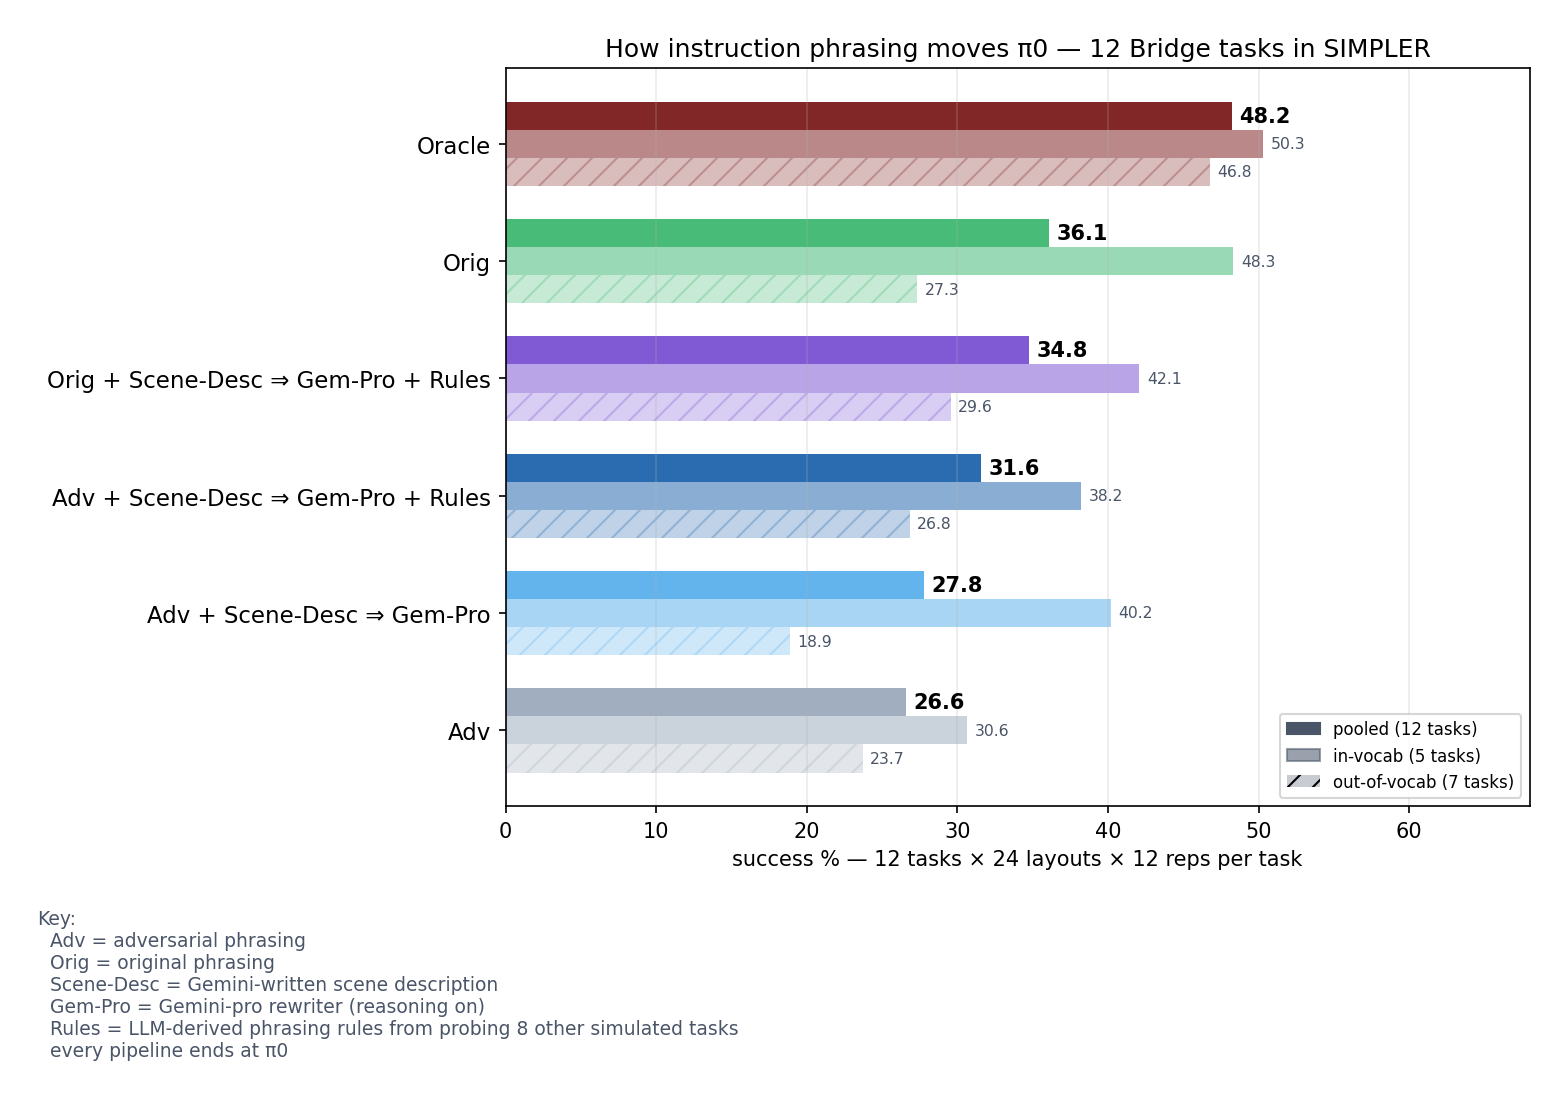
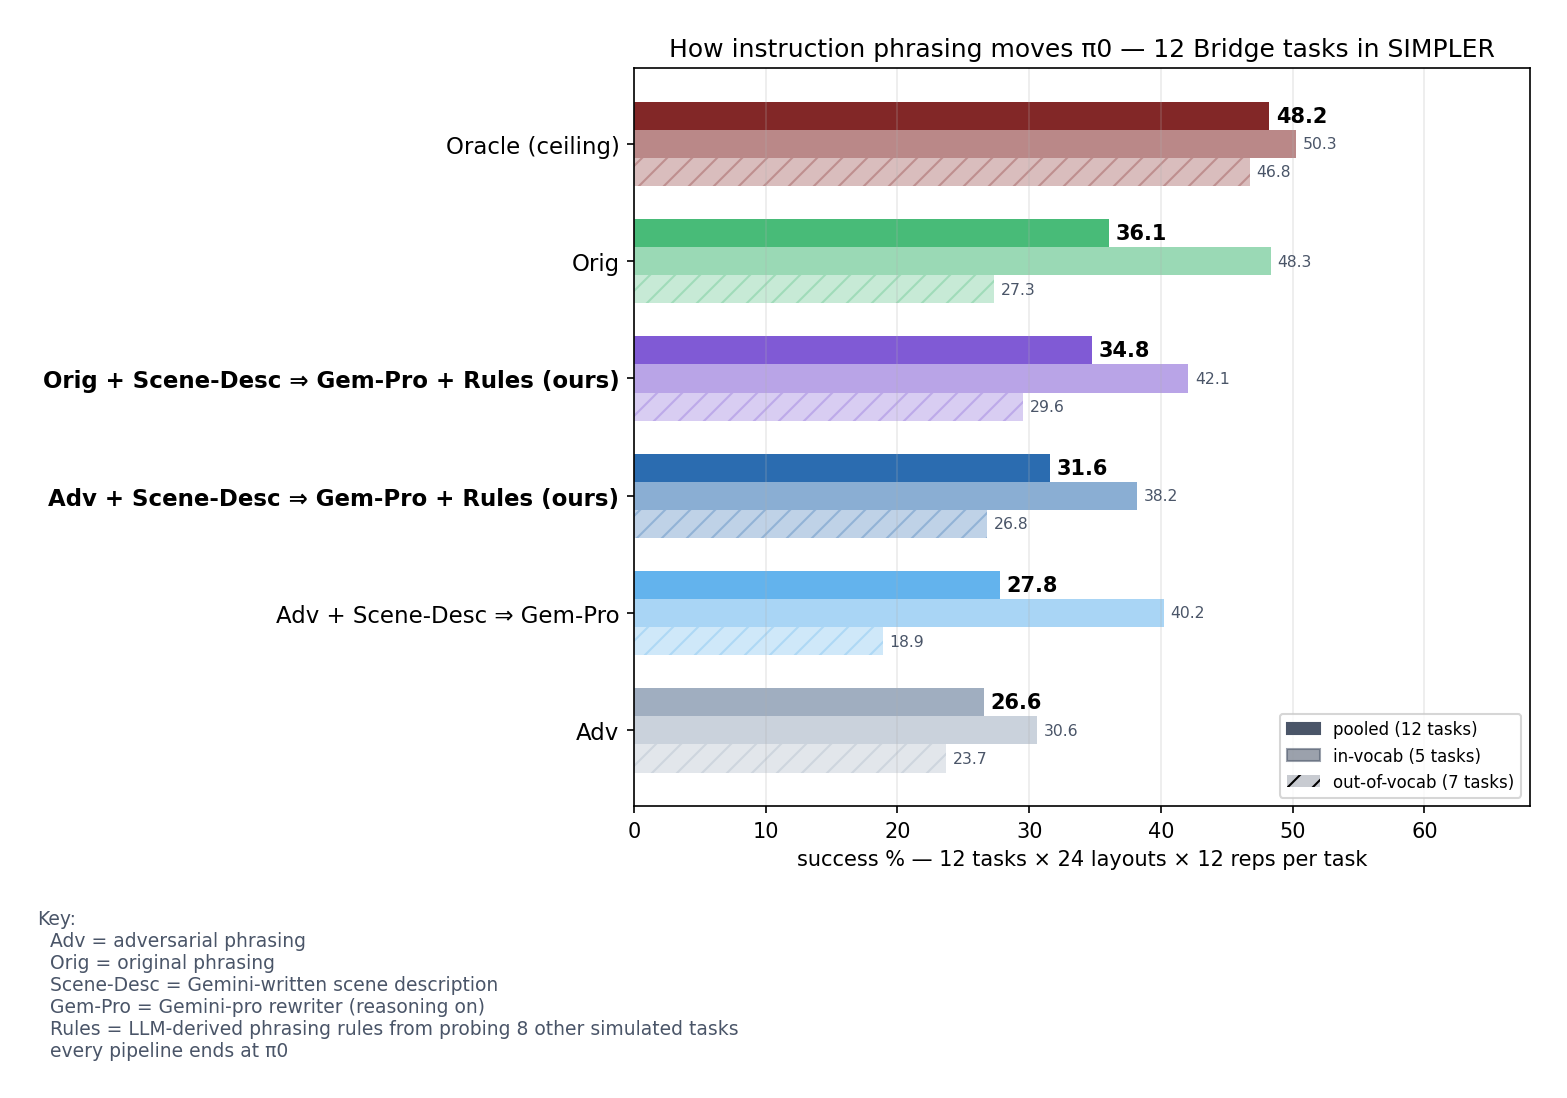
thin chart: mark (ours) rows bold, Oracle as (ceiling)

diff --git a/scripts/make_sealed_thin.py b/scripts/make_sealed_thin.py
@@ -59,10 +59,10 @@ def oracle_per_task():
 
 
 BARS = [
-    ("Oracle", "ORACLE", "#822727"),
-    ("Orig + Scene-Desc ⇒ Gem-Pro + Rules", "rules_pro_nominal", "#805ad5"),
+    ("Oracle (ceiling)", "ORACLE", "#822727"),
+    ("Orig + Scene-Desc ⇒ Gem-Pro + Rules (ours)", "rules_pro_nominal", "#805ad5"),
     ("Orig", "originals", "#48bb78"),
-    ("Adv + Scene-Desc ⇒ Gem-Pro + Rules", "rules_v3_gemini_pro", "#2b6cb0"),
+    ("Adv + Scene-Desc ⇒ Gem-Pro + Rules (ours)", "rules_v3_gemini_pro", "#2b6cb0"),
     ("Adv + Scene-Desc ⇒ Gem-Pro", "gemini_pro_bare", "#63b3ed"),
     ("Adv", "passthrough", "#a0aec0"),
 ]
@@ -98,6 +98,9 @@ for yi, (label, s, color) in zip(y, rows):
     ax.text(s["oov"] + 0.5, yi - h, f"{s['oov']:.1f}", va="center", fontsize=7.5, color="#4a5568")
 ax.set_yticks(y)
 ax.set_yticklabels([r[0] for r in rows], fontsize=11)
+for tick, (label, _, _) in zip(ax.get_yticklabels(), rows):
+    if "(ours)" in label:
+        tick.set_fontweight("bold")
 ax.legend(handles=[Patch(color="#4a5568", label="pooled (12 tasks)"),
                    Patch(color="#4a5568", alpha=0.55, label=f"in-vocab ({len(IV)} tasks)"),
                    Patch(facecolor="#4a5568", alpha=0.3, hatch="//", label=f"out-of-vocab ({len(OO)} tasks)")],
